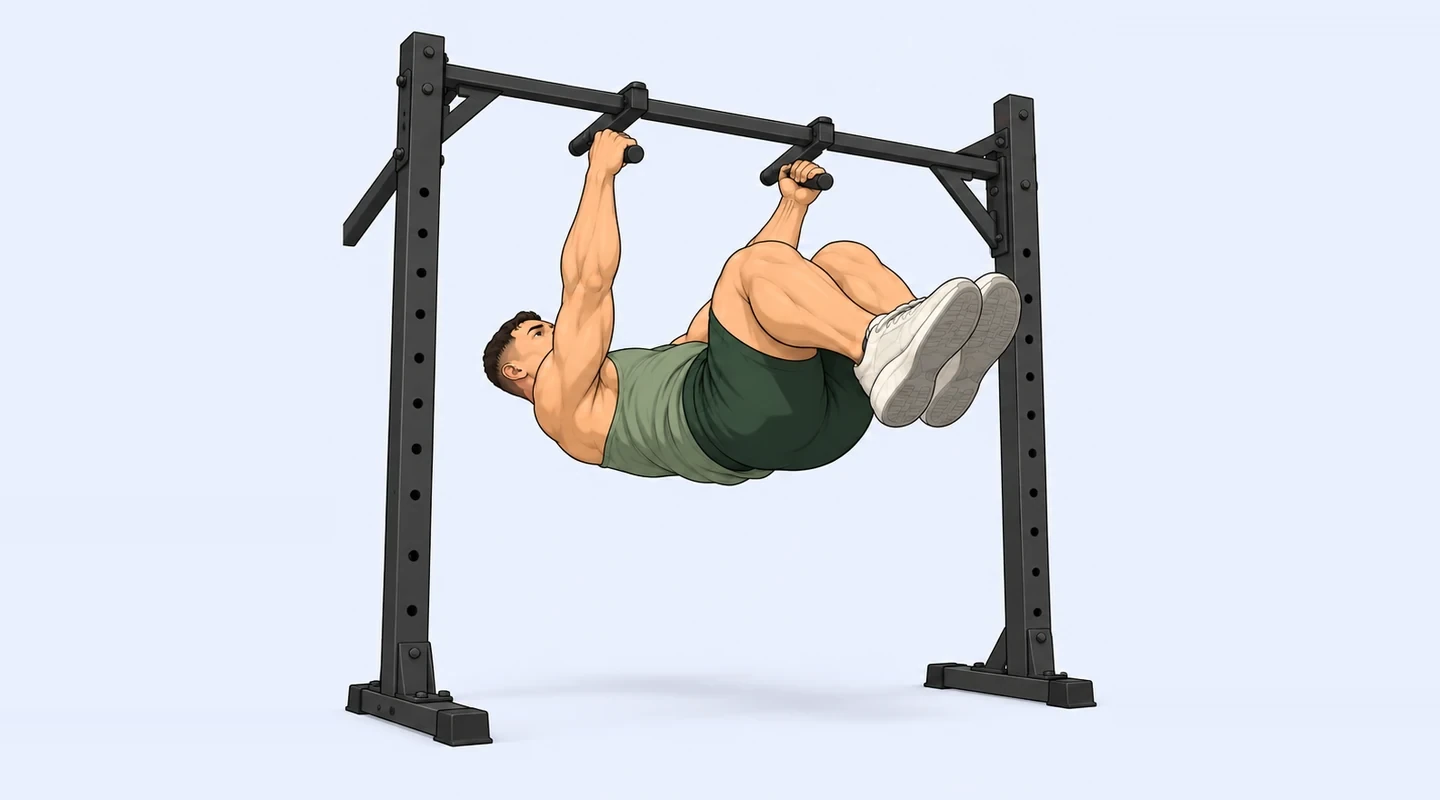
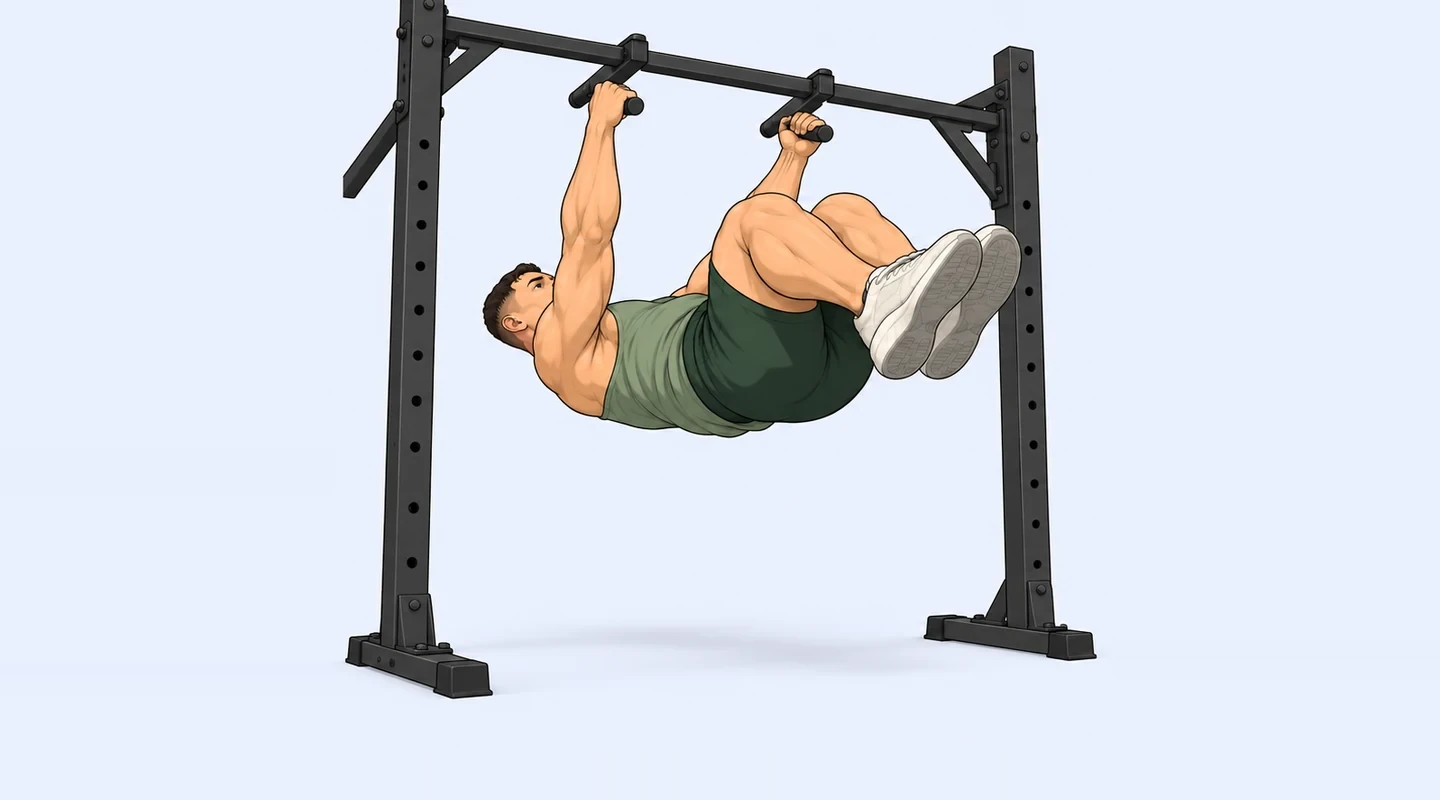
Move Bruno plank to Monday and raise home workout cover

Changed region(s): [[0.2188, 0.0, 0.7812, 0.9375]]

diff --git a/src/data.ts b/src/data.ts
@@ -73,6 +73,7 @@ export const initialWorkouts: Workout[] = [
     {...parallelBarDips,sets:3,target:'6–12'},
     exercise('rope-pushdown','Tríceps na polia com corda',3,'10–15',3),
     exercise('bar-pushdown','Tríceps na polia com barra',3,'10–15',23),
+    {...exercise('front-plank','Prancha frontal',3,'30–60',54,'seconds'),muscle:'abs'},
   ] },
   { id: 'b', name: 'Costas, bíceps + ombros', day: 2, image: 68, exercises: [
     {...exercise('assisted-pullup','Barra fixa assistida',3,'6–10',68),instructions:'Registre o contrapeso de assistência. Menos kg de assistência = maior dificuldade.'},
@@ -98,7 +99,6 @@ export const initialWorkouts: Workout[] = [
     exercise('rope-pushdown','Tríceps na polia com corda',3,'10–15',3),
     {...militarySitup,sets:3,target:'10–20'},
     {...declineSitup},
-    {...exercise('front-plank','Prancha frontal',3,'30–60',54,'seconds'),muscle:'abs'},
   ] },
   { id: 'e', name: 'Costas, bíceps + ombros', day: 5, image: 10, exercises: [
     {...exercise('assisted-pullup','Barra fixa assistida',3,'6–10',68),instructions:'Registre o contrapeso de assistência. Menos kg de assistência = maior dificuldade.'},
@@ -118,7 +118,7 @@ export function createLegacyState(): AppState {
 
 export function createInitialState(): AppState {
   return {
-    version: 1, brunoAdditionsRevision: 1, brunoSeriesRevision: 1, brunoHomeRevision: 1, brunoPlanRevision: 1, routineRevision: 12, brunoFridayRevision: 1, exerciseNotes: {}, workouts: structuredClone(initialWorkouts), weights: {}, active: null, history: [],
+    version: 1, brunoPlankRevision: 1, brunoAdditionsRevision: 1, brunoSeriesRevision: 1, brunoHomeRevision: 1, brunoPlanRevision: 1, routineRevision: 12, brunoFridayRevision: 1, exerciseNotes: {}, workouts: structuredClone(initialWorkouts), weights: {}, active: null, history: [],
     timer: { duration: 90, remaining: 90, endAt: null, exercise: '', started: false },
     preferences: { autoRest: false, sound: false, restDuration: 90 },
   };

diff --git a/src/domain.test.ts b/src/domain.test.ts
@@ -54,7 +54,7 @@ describe('workout sessions', () => {
     expect(state.active?.exercises[0]).toMatchObject({ weight: 45, done: [true, false, false, false, false] });
     expect(state.timer).toEqual(previous.timer);
     expect(state.workouts).toEqual(previous.workouts);
-    expect(getProgress(state.active!)).toEqual({ done: 1, total: 20 });
+    expect(getProgress(state.active!)).toEqual({ done: 1, total: 23 });
     expect(validateState(state)).toBe(true);
     expect(parseBackup(createBackup(state))).toEqual(state);
     const finished = finishSession(state, 2000);
@@ -98,9 +98,9 @@ describe('workout sessions', () => {
     expect(session.exercises[0].weight).toBe(42.5);
     expect(session.exercises[0].done).toEqual([false, false, false]);
     expect(session.exercises[2].done).toHaveLength(3);
-    expect(getProgress(session)).toEqual({ done: 0, total: 18 });
+    expect(getProgress(session)).toEqual({ done: 0, total: 21 });
     session.exercises[0].done[1] = true;
-    expect(getProgress(session)).toEqual({ done: 1, total: 18 });
+    expect(getProgress(session)).toEqual({ done: 1, total: 21 });
     expect(session.exercises[1].weight).toBe(0);
   });
   it('finishes a partial session without counting unmarked sets, and keeps a historical snapshot', () => {
@@ -110,7 +110,7 @@ describe('workout sessions', () => {
     const next = finishSession(state, 2000);
     expect(next.active).toBeNull();
     expect(next.history[0].finishedAt).toBe(2000);
-    expect(getProgress(next.history[0])).toEqual({ done: 1, total: 18 });
+    expect(getProgress(next.history[0])).toEqual({ done: 1, total: 21 });
     state.workouts[0].exercises[0].name = 'Changed routine';
     state.weights['bench-press'] = 50;
     expect(next.history[0].exercises[0].name).toBe('Supino reto com barra');

diff --git a/src/plankMove.test.ts b/src/plankMove.test.ts
@@ -1,0 +1,12 @@
+import {it,expect} from 'vitest';
+import {createInitialState} from './data';
+import {createSession} from './domain';
+import {migrateState} from './migrations';
+import {selectRoutinePlan} from './routinePlans';
+function old(){const s=createInitialState();delete s.brunoPlankRevision;const plank=s.workouts[0].exercises.pop()!;s.workouts[3].exercises.push({...plank,sets:4,target:'45'});s.active=createSession(s.workouts[3],{});s.active.exercises.at(-1)!.done[0]=true;s.active.exercises.at(-1)!.seconds=[35,null,null,null];s.history=[{...structuredClone(s.active),id:'past',finishedAt:Date.now()}];return s;}
+it('moves the existing plank once and preserves its custom target and all recorded snapshots',()=>{
+ const s=old(),n=migrateState(s);expect(n.workouts[0].exercises.at(-1)).toMatchObject({id:'front-plank',sets:4,target:'45'});expect(n.workouts[3].exercises.some(e=>e.id==='front-plank')).toBe(false);expect(n.active).toEqual(s.active);expect(n.history).toEqual(s.history);expect(migrateState(n)).toEqual(n);
+});
+it('updates the inactive Bruno plan without changing another person’s routine',()=>{
+ const s=old();s.active=null;const nick=selectRoutinePlan(s,'sheet'),n=migrateState(nick);expect(n.workouts).toEqual(nick.workouts);expect(n.planSnapshots!.original![0].exercises.at(-1)!.id).toBe('front-plank');
+});

diff --git a/src/ExerciseMotion.tsx b/src/ExerciseMotion.tsx
@@ -4,13 +4,13 @@ import './exercise-motion.css';
 
 const motionImages: Record<string, Record<string, number>> = {
   a: { 'bench-press': 0, 'incline-dumbbell': 21, 'pec-deck': 2,
-    'parallel-bar-dips': 36, 'rope-pushdown': 3, 'bar-pushdown': 23 },
+    'parallel-bar-dips': 36, 'rope-pushdown': 3, 'bar-pushdown': 23, 'front-plank':54 },
   b: { 'assisted-pullup': 68, 'chest-supported-row': 31, 'preacher-curl': 10,
     'rope-curl': 32, 'lateral-raise': 19, 'face-pull': 67 },
   c: { 'lever-squat': 66, 'leg-press': 12, 'leg-extension': 13,
     'leg-curl': 14, 'lying-leg-curl': 56, 'hip-abduction': 64, 'calf-raise': 16 },
   d: { 'incline-dumbbell': 21, 'crossover': 22, 'parallel-bar-dips': 36,
-    'rope-pushdown': 3, 'military-situp': 35, 'decline-situp': 34, 'front-plank': 54 },
+    'rope-pushdown': 3, 'military-situp': 35, 'decline-situp': 34 },
   e: { 'assisted-pullup': 68, 'cable-row': 7, 'preacher-curl': 10,
     'cable-curl': 29, 'rope-curl': 32, 'cable-lateral-raise': 59, 'face-pull': 67 },
   home: { 'tuck-front-lever': 24, 'hanging-leg-raise': 49 },

diff --git a/src/brunoPlan.test.ts b/src/brunoPlan.test.ts
@@ -9,7 +9,7 @@ import { plannedMuscleCounts } from './trainingStats';
 describe('Bruno balanced plan', () => {
   it('uses the agreed the agreed exercises and exact series, without a second leg day', () => {
     const state=createInitialState();
-    expect(state.workouts.slice(0,5).map(w=>w.exercises.map(e=>e.sets))).toEqual([[3,3,3,3,3,3],[3,3,3,3,3,3],[3,3,3,3,3,3,4],[3,3,3,3,3,3,3],[3,3,3,3,3,3,3]]);
+    expect(state.workouts.slice(0,5).map(w=>w.exercises.map(e=>e.sets))).toEqual([[3,3,3,3,3,3,3],[3,3,3,3,3,3],[3,3,3,3,3,3,4],[3,3,3,3,3,3],[3,3,3,3,3,3,3]]);
     expect(state.workouts.filter(w=>w.name==='Pernas')).toHaveLength(1);
     expect(state.workouts.flatMap(w=>w.exercises).filter(e=>e.id==='assisted-pullup')).toHaveLength(2);
     expect(state.workouts.flatMap(w=>w.exercises).some(e=>['lat-pulldown','straight-arm-pulldown','overhead-extension'].includes(e.id))).toBe(false);

diff --git a/src/calendar.test.ts b/src/calendar.test.ts
@@ -29,13 +29,13 @@ describe('actual training calendar', () => {
   it('uses finished-session snapshots after a plan has been edited, and excludes unfinished sessions', () => {
     const state = createInitialState();
     const session = createSession(state.workouts[3], {});
-    expect(workoutFocus(session)).toBe('abs');
+    expect(workoutFocus(session)).toBe('chest');
     const date = localDateKey(Date.now());
     expect(sessionsOnDate([session], date)).toEqual([]);
     session.finishedAt = Date.now();
     state.workouts[3].exercises = [];
     state.workouts[3].name = 'Treino alterado';
-    expect(workoutFocus(session)).toBe('abs');
+    expect(workoutFocus(session)).toBe('chest');
     expect(sessionsOnDate([session], date)[0].workoutName).toBe('Peito, tríceps + abdômen');
   });
 });

diff --git a/src/migrations.ts b/src/migrations.ts
@@ -241,5 +241,16 @@ export function migrateState(original: AppState): AppState {
     }
     state.brunoAdditionsRevision = 1;
   }
+  if (state.brunoPlankRevision !== 1) {
+    for (const plan of [...((state.selectedPlan ?? 'original') === 'original' ? [state.workouts] : []), ...(state.planSnapshots?.original ? [state.planSnapshots.original] : [])]) {
+      const monday=plan.find(w=>w.id==='a'), thursday=plan.find(w=>w.id==='d');
+      const plank=thursday?.exercises.find(e=>e.id==='front-plank');
+      if(monday && thursday && plank){
+        if(!monday.exercises.some(e=>e.id==='front-plank'))monday.exercises.push(structuredClone(plank));
+        thursday.exercises=thursday.exercises.filter(e=>e.id!=='front-plank');
+      }
+    }
+    state.brunoPlankRevision=1;
+  }
   return state;
 }

diff --git a/src/domain.ts b/src/domain.ts
@@ -102,6 +102,7 @@ export function validateState(value: unknown): value is AppState {
   }
   if (!Array.isArray(value.history) || value.history.length > 10000 || !value.history.every(s => validSession(s) && number(s.finishedAt))) return false;
   const p = value.preferences, t = value.timer;
+  if (value.brunoPlankRevision !== undefined && value.brunoPlankRevision !== 1) return false;
   if (value.brunoAdditionsRevision !== undefined && value.brunoAdditionsRevision !== 1) return false;
   if (value.brunoSeriesRevision !== undefined && value.brunoSeriesRevision !== 1) return false;
   if (value.brunoHomeRevision !== undefined && value.brunoHomeRevision !== 1) return false;

diff --git a/src/brunoAdditions.test.ts b/src/brunoAdditions.test.ts
@@ -14,7 +14,7 @@ function previous() {
 describe('three requested Bruno additions',()=>{
  it('adds exactly one exercise on Wednesday, Thursday and Friday, leaving Monday and Tuesday untouched',()=>{
   const state=previous(),next=migrateState(state);
-  expect(next.workouts.map(w=>w.exercises.length)).toEqual([6,6,7,7,7,2]);
+  expect(next.workouts.map(w=>w.exercises.length)).toEqual([7,6,7,6,7,2]);
   expect(next.workouts.slice(0,2)).toEqual(state.workouts.slice(0,2));
   expect(next.workouts[0].exercises.find(e=>e.id==='parallel-bar-dips')?.sets).toBe(3);
   expect(next.workouts[2].exercises.find(e=>e.id==='hip-abduction')).toMatchObject({sets:3,image:64});

diff --git a/src/exerciseLibrary.test.ts b/src/exerciseLibrary.test.ts
@@ -34,7 +34,7 @@ describe('predefined exercise catalog', () => {
     expect(selected.name).toBe('Agachamento búlgaro');
     expect(copy).not.toHaveProperty('aliases');
     expect(createInitialState().workouts).toEqual(original);
-    expect(createInitialState().workouts.map(w => w.exercises.length)).toEqual([6, 6, 7, 7, 7, 2]);
+    expect(createInitialState().workouts.map(w => w.exercises.length)).toEqual([7, 6, 7, 6, 7, 2]);
   });
   it('keeps loads distinct for new variants and accepts them in backups', () => {
     const state = createInitialState();

diff --git a/src/routinePlans.test.ts b/src/routinePlans.test.ts
@@ -53,7 +53,7 @@ describe('local routine choice', () => {
     createSheetWorkouts();
     expect(state).toEqual(before);
     expect(selectRoutinePlan(state, 'original')).toBe(state);
-    expect(state.workouts.map(w => w.exercises.length)).toEqual([6, 6, 7, 7, 7, 2]);
+    expect(state.workouts.map(w => w.exercises.length)).toEqual([7, 6, 7, 6, 7, 2]);
   });
   it('transcribes all five sheet routines, series, targets, rest and combinations', () => {
     const workouts = createSheetWorkouts();

diff --git a/src/types.ts b/src/types.ts
@@ -70,5 +70,6 @@ export interface AppState {
   brunoHomeRevision?: 1;
   brunoSeriesRevision?: 1;
   brunoAdditionsRevision?: 1;
+  brunoPlankRevision?: 1;
   exerciseNotes?: Record<string, string>;
 }
